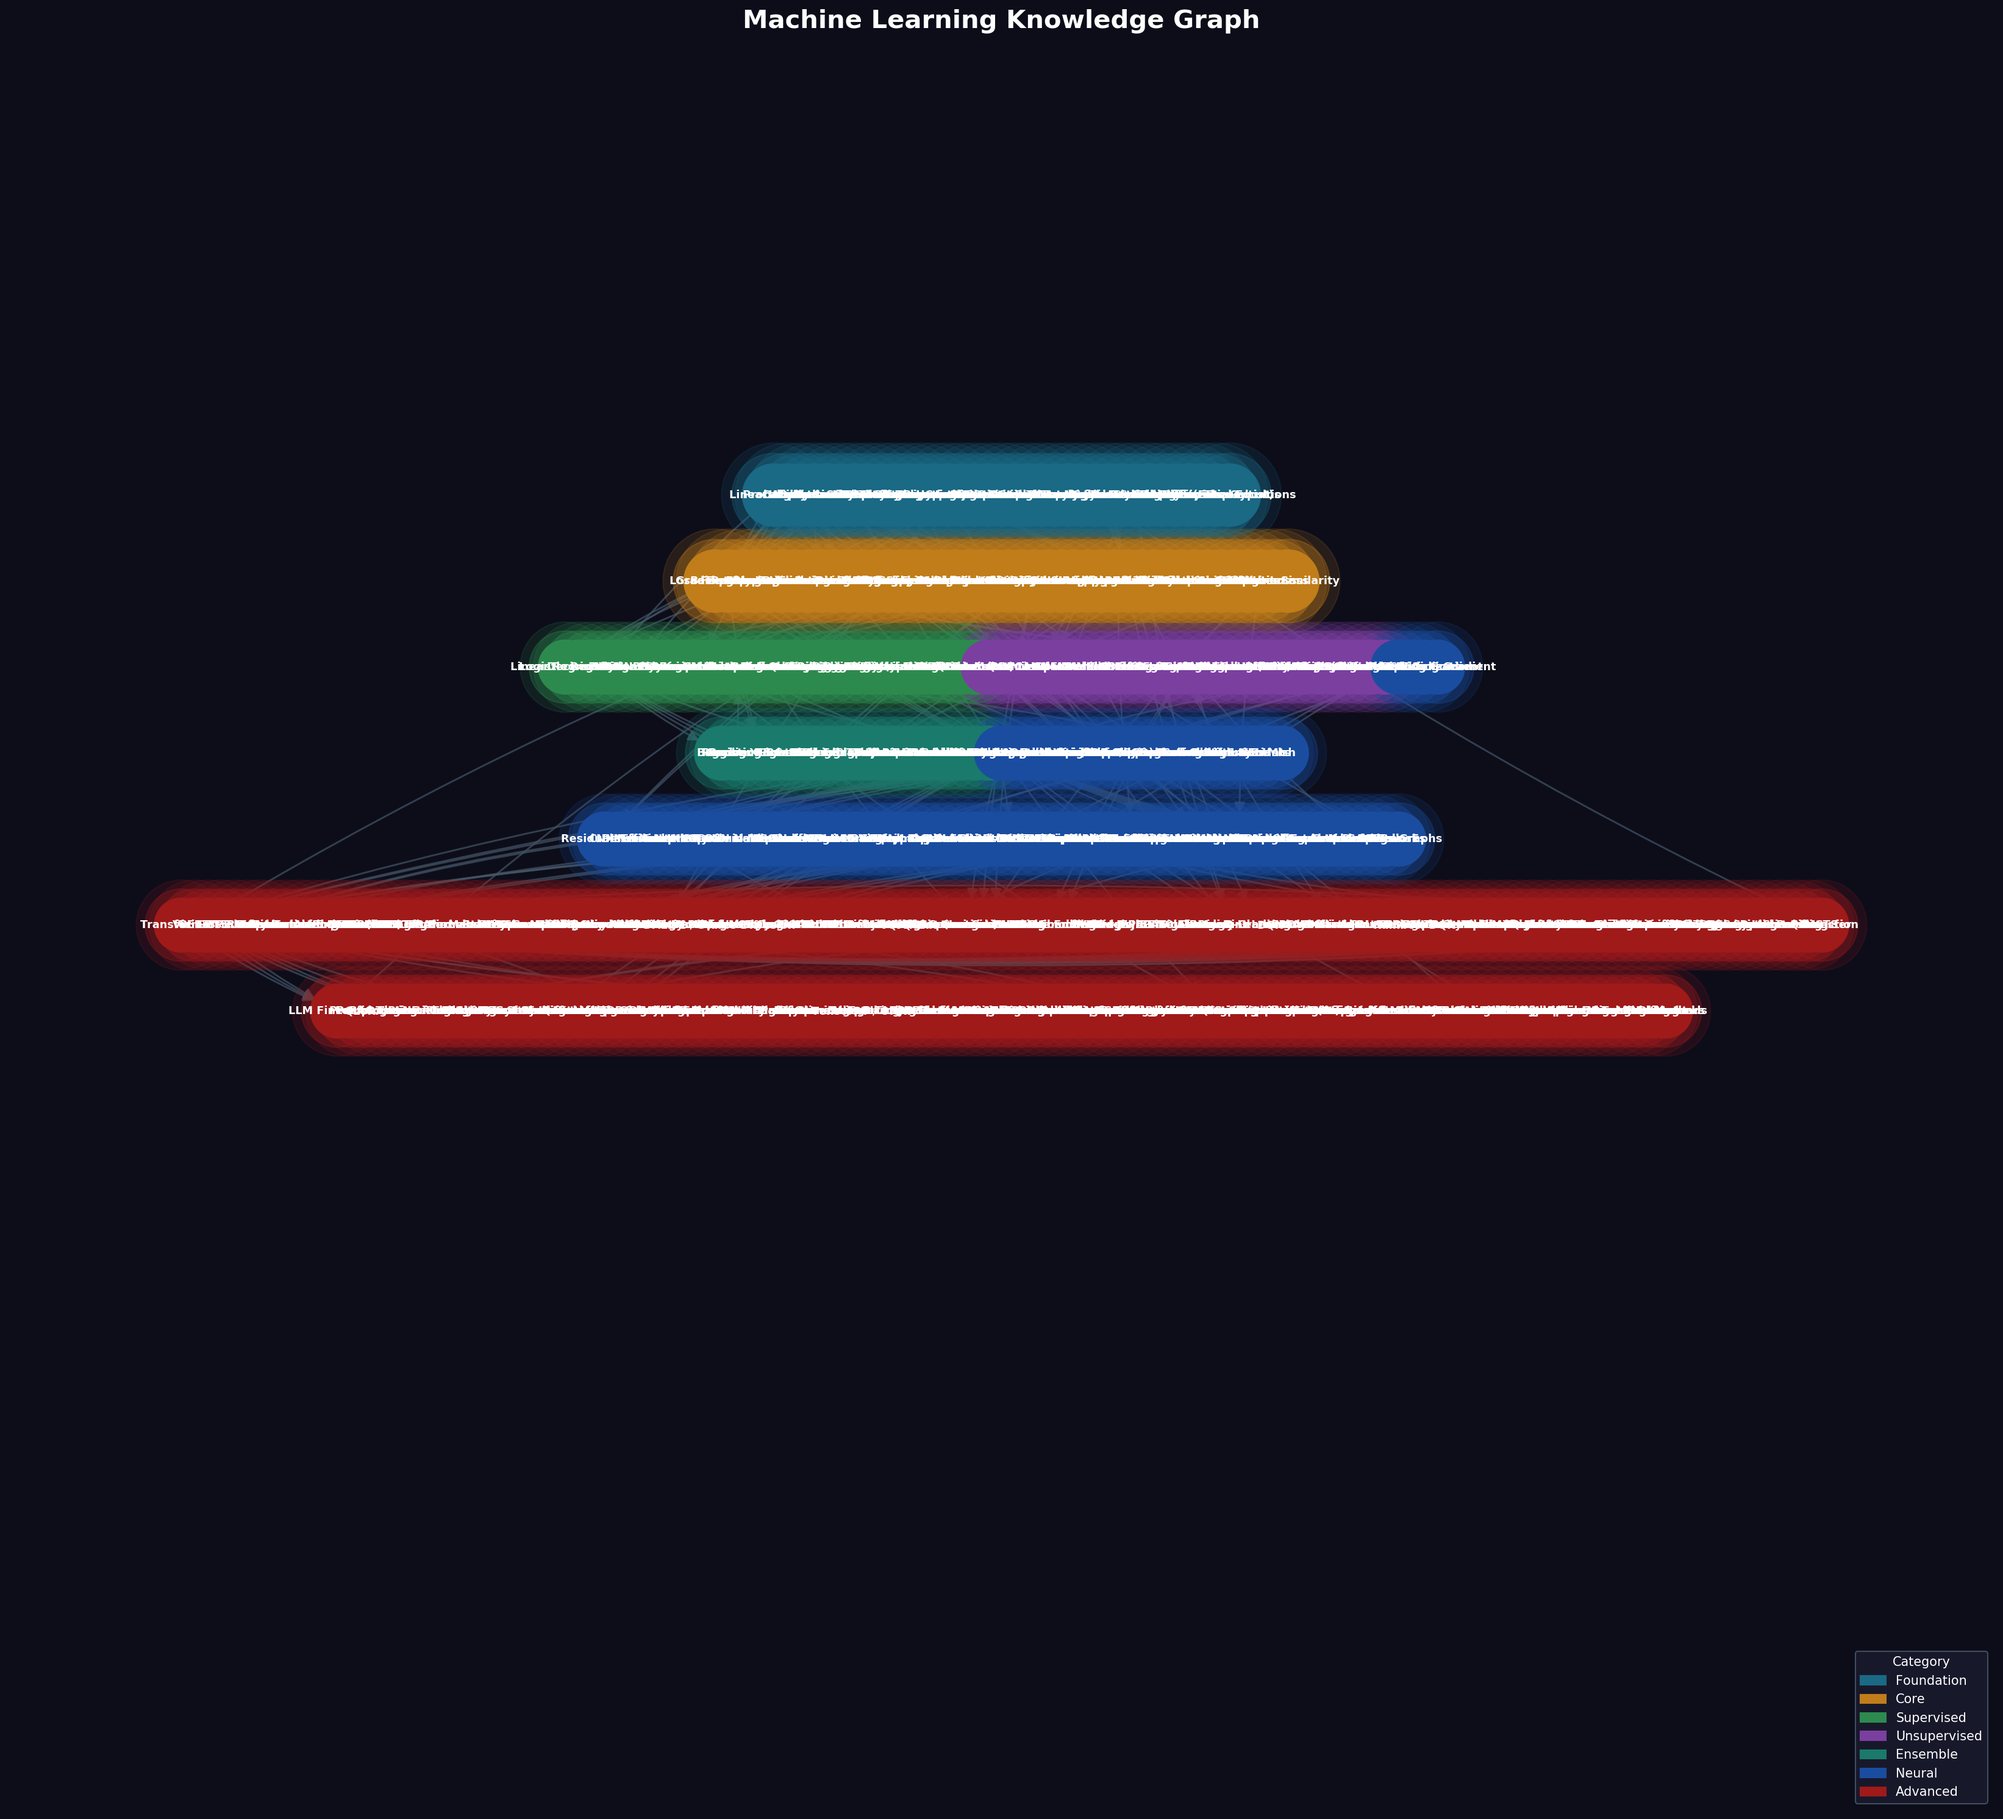
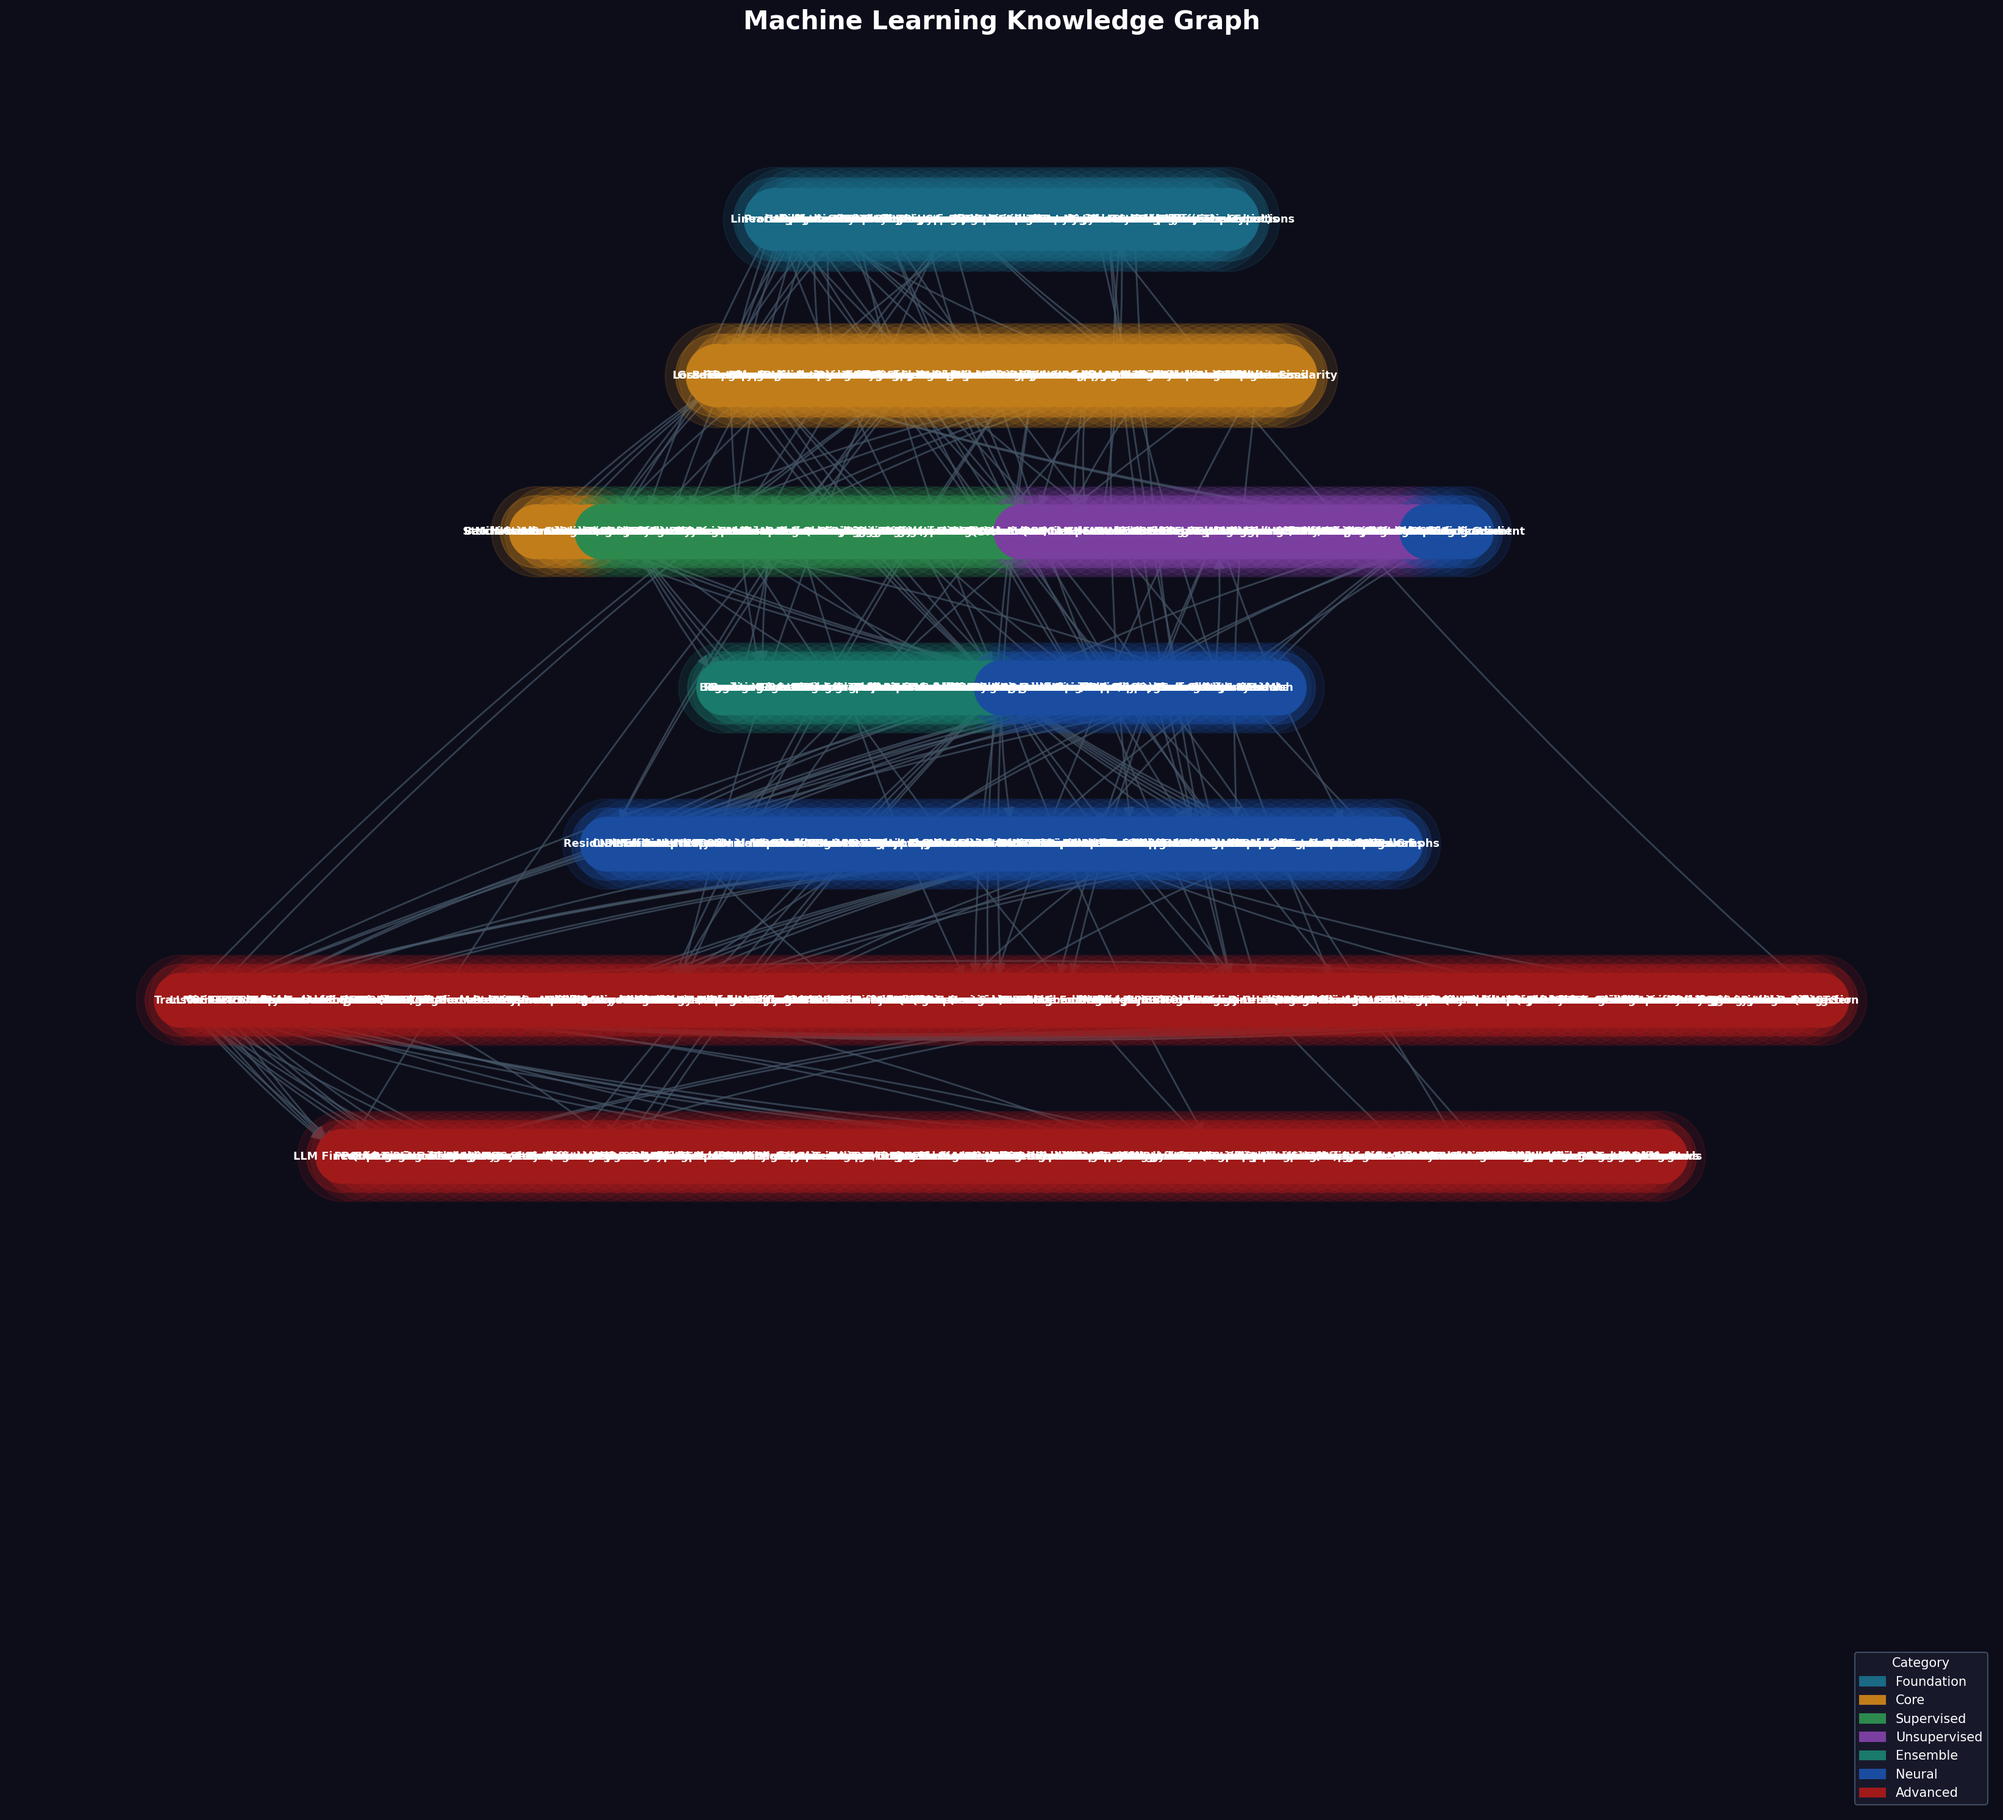
Add 5 gradient descent variant nodes
New nodes (level 2, core): Batch Gradient Descent (1847),
Stochastic Gradient Descent (1951), Mini-batch Gradient Descent (1960),
Momentum SGD (1964), Nesterov Accelerated Gradient (1983).

Edges: GD → all three batch variants, SGD → Momentum → Nesterov,
SGD/Momentum/Nesterov → Optimizers (Adam/SGD).

Total: 484 nodes, 575 edges.

Changed region(s): [[0.0621, 0.0935, 0.9315, 0.6859]]

diff --git a/static/index.html b/static/index.html
@@ -1184,7 +1184,10 @@ fetch('graph.json').then(r => r.json()).then(data => {
     'Complexity Theory': 1965, 'Statistics (Frequentist)': 1925,
     'Multivariate Calculus': 1800, 'Differential Equations': 1700,
     // Core
-    'Loss Functions': 1805, 'Gradient Descent': 1847, 'Backpropagation': 1986,
+    'Loss Functions': 1805, 'Gradient Descent': 1847, 'Batch Gradient Descent': 1847,
+    'Stochastic Gradient Descent': 1951, 'Mini-batch Gradient Descent': 1960,
+    'Momentum (SGD)': 1964, 'Nesterov Accelerated Gradient': 1983,
+    'Backpropagation': 1986,
     'Regularization': 1963, 'Feature Engineering': 1990,
     'Cross-Validation': 1974, 'Bias-Variance Tradeoff': 1992,
     'Hyperparameter Tuning': 1990, 'Data Preprocessing': 1990,

diff --git a/src/graph_data.py b/src/graph_data.py
@@ -84,6 +84,13 @@ NODES = {
     "Huber Loss":                  (1, "core"),
     "Cosine Similarity":           (1, "core"),
 
+    # Gradient Descent variants (level 2)
+    "Batch Gradient Descent":      (2, "core"),
+    "Stochastic Gradient Descent": (2, "core"),
+    "Mini-batch Gradient Descent": (2, "core"),
+    "Momentum (SGD)":              (2, "core"),
+    "Nesterov Accelerated Gradient": (2, "core"),
+
     # ── Level 2: Classical Supervised ─────────────────────────────────────
     "Linear Regression":           (2, "supervised"),
     "Logistic Regression":         (2, "supervised"),
@@ -555,6 +562,13 @@ EDGES = [
     ("Loss Functions", "Focal Loss"), ("Loss Functions", "Triplet Loss"),
     ("Gradient Descent", "Linear Regression"), ("Gradient Descent", "Neural Networks"),
     ("Gradient Descent", "Gradient Boosting"), ("Gradient Descent", "Learning Rate Scheduling"),
+    ("Gradient Descent", "Batch Gradient Descent"), ("Gradient Descent", "Stochastic Gradient Descent"),
+    ("Gradient Descent", "Mini-batch Gradient Descent"),
+    ("Stochastic Gradient Descent", "Momentum (SGD)"),
+    ("Momentum (SGD)", "Nesterov Accelerated Gradient"),
+    ("Stochastic Gradient Descent", "Optimizers (Adam/SGD)"),
+    ("Momentum (SGD)", "Optimizers (Adam/SGD)"),
+    ("Nesterov Accelerated Gradient", "Optimizers (Adam/SGD)"),
     ("Backpropagation", "Neural Networks"), ("Backpropagation", "Vanishing Gradient"),
     ("Backpropagation", "Exploding Gradient"),
     ("Regularization", "Ridge & Lasso"), ("Regularization", "Dropout"),
